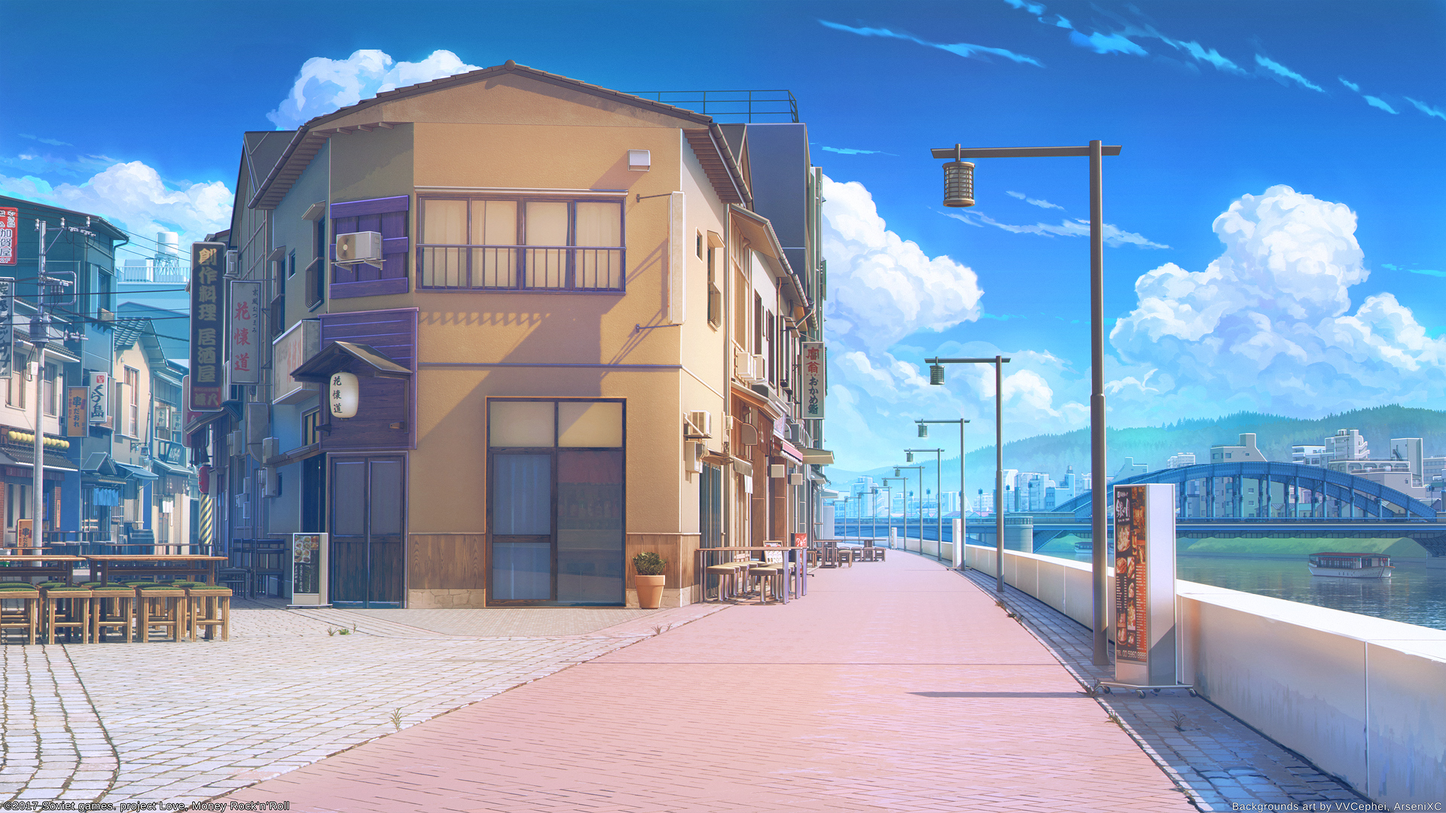
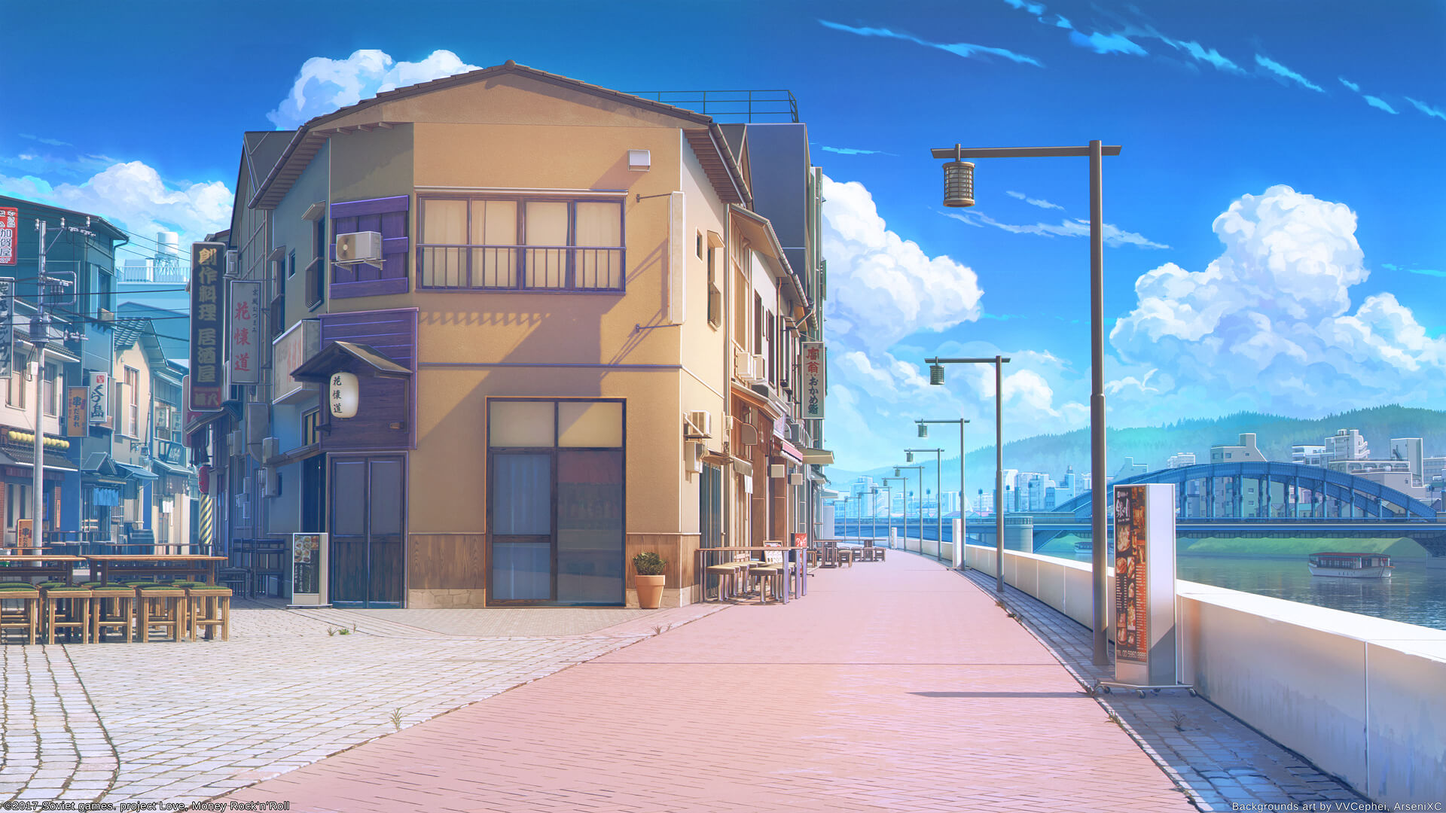
背景图体积压缩以及移动端最新评论显示不完整的修复

diff --git a/main.css b/main.css
@@ -374,7 +374,7 @@ header {
 }
 .boaCon {
     width: 100%;
-    max-height: 185Px;
+    min-height: 185Px;
     letter-spacing: 1px;
 }
 .boaCon > ul {
